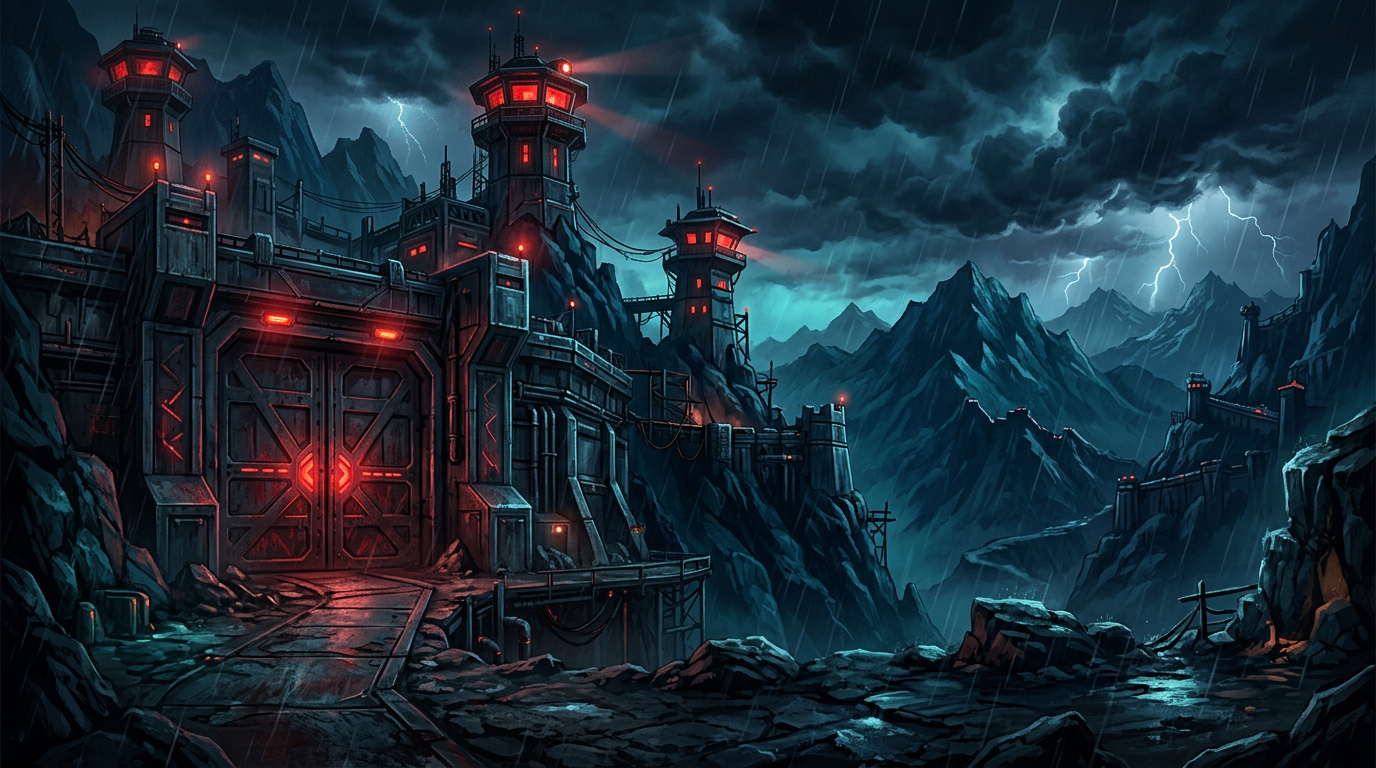
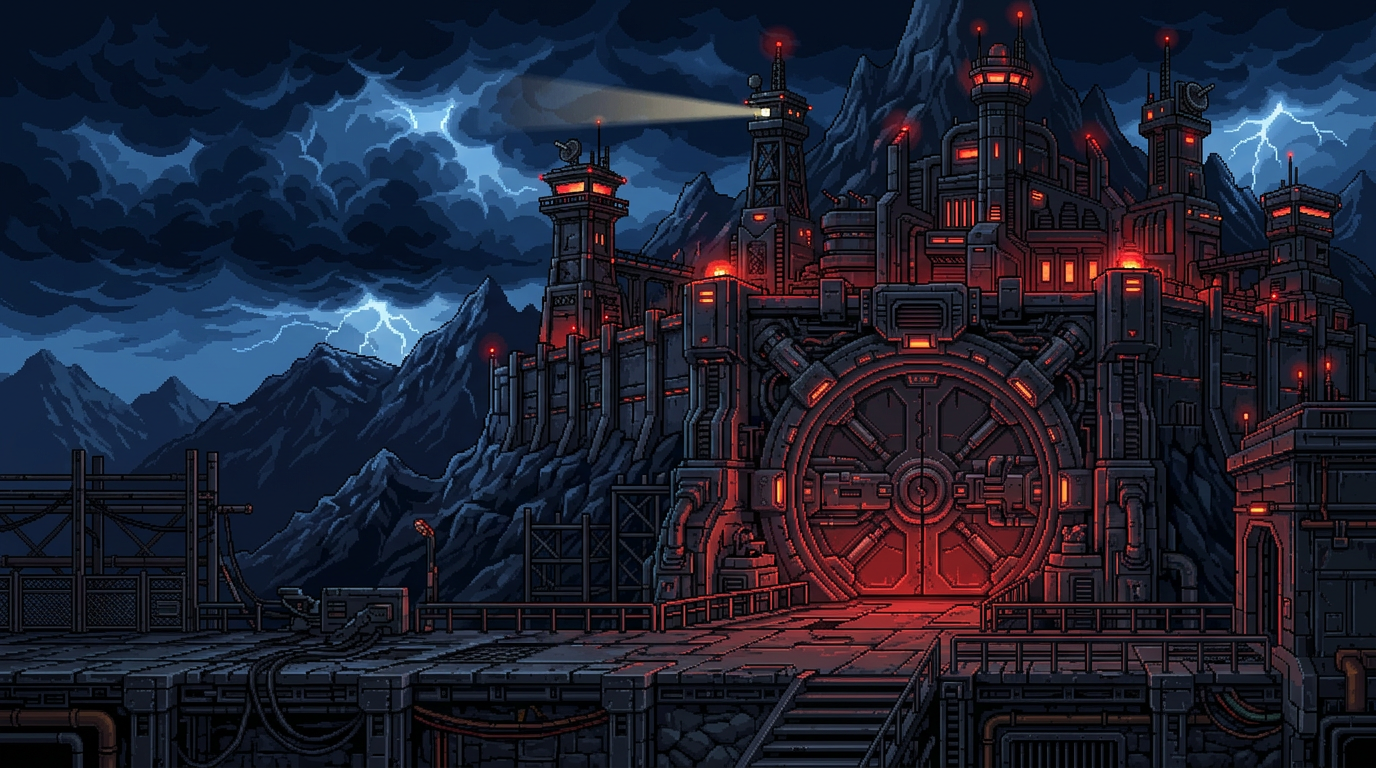
Restyle campaign as modern pixel-art run-and-gun

diff --git a/jungle_strike/lib/fighter_painter.dart b/jungle_strike/lib/fighter_painter.dart
@@ -1,9 +1,7 @@
 import 'dart:math' as math;
-import 'dart:ui';
 import 'package:flutter/material.dart';
 
-/// Draws Asha as a grounded, muscular side-view fighter with a readable face,
-/// exposed arms and a weapon visibly held in both hands.
+/// Original, high-detail pixel-art side-view fighter sprite.
 void paintFighter(
   Canvas canvas, {
   required double x,
@@ -15,106 +13,81 @@ void paintFighter(
   required bool firing,
   required String weapon,
 }) {
-  final bob = math.sin(frame * .28) * (prone ? 0 : 1.4 * scale);
-  final fx = x;
-  final fy = footY + bob;
-  const outline = Color(0xff111b25);
-  const armor = Color(0xff263946);
-  const armorLight = Color(0xff54707a);
-  const skin = Color(0xffc9845e);
-  final edge = Paint()..color = outline;
-  final skinPaint = Paint()..shader = const LinearGradient(begin: Alignment.topLeft, end: Alignment.bottomRight, colors: [Color(0xfff0b18a), skin, Color(0xff8b513e)]).createShader(Rect.fromLTWH(fx-36*scale, fy-84*scale, 80*scale, 75*scale));
-  final armorPaint = Paint()..shader = const LinearGradient(begin: Alignment.topLeft, end: Alignment.bottomRight, colors: [Color(0xff55727b), armor, Color(0xff172832)]).createShader(Rect.fromLTWH(fx-32*scale, fy-75*scale, 68*scale, 80*scale));
-  final riflePaint = Paint()..shader = const LinearGradient(begin: Alignment.topCenter, end: Alignment.bottomCenter, colors: [Color(0xff8ca4a2), Color(0xff34444c), Color(0xff111b22)]).createShader(Rect.fromLTWH(fx, fy-65*scale, 76*scale, 20*scale));
+  const ink = Color(0xff101920);
+  const skin = Color(0xffd69069);
+  const skinLight = Color(0xffffbc8d);
+  const skinShade = Color(0xff874f43);
+  const armor = Color(0xff263c47);
+  const armorMid = Color(0xff3f6470);
+  const armorHi = Color(0xff79a3a2);
+  const pants = Color(0xff293744);
+  const gold = Color(0xffffc857);
+  const tile = 4.0;
+  final px = tile * scale;
+  final bob = prone ? 0.0 : math.sin(frame * .28) * 1.5 * scale;
+  final baseY = footY + bob;
+  final rifleColor = weapon == 'ROCKET' ? const Color(0xffba6844) : weapon == 'SPREAD' ? const Color(0xff538b9c) : const Color(0xff52686e);
 
-  canvas.save();
-  if (dodging) {
-    canvas.translate(fx, fy);
-    canvas.rotate(-.12);
-    canvas.translate(-fx, -fy);
+  void block(double left, double top, double width, double height, Color color) {
+    final l = ((x + left * scale) / px).roundToDouble() * px;
+    final t = ((baseY + top * scale) / px).roundToDouble() * px;
+    canvas.drawRect(Rect.fromLTWH(l, t, (width / tile).round() * px, (height / tile).round() * px), Paint()..color = color);
   }
-  canvas.drawOval(Rect.fromCenter(center: Offset(fx, fy+2*scale), width: 54*scale, height: 10*scale), Paint()..color = (dodging ? const Color(0x9972ffe3) : const Color(0x7738e0cb))..maskFilter = MaskFilter.blur(BlurStyle.normal, dodging ? 15*scale : 6*scale));
+
+  canvas.drawRect(Rect.fromLTWH(x - 24*scale, footY + 2*scale, 60*scale, 6*scale), Paint()..color = (dodging ? const Color(0xff50e4d1) : const Color(0x8843d0b2))..maskFilter = MaskFilter.blur(BlurStyle.normal, dodging ? 12*scale : 5*scale));
 
   if (prone) {
-    // Low crawl pose: face and both hands remain behind the raised rifle.
-    canvas.drawRRect(RRect.fromRectAndRadius(Rect.fromLTWH(fx-23*scale, fy-26*scale, 48*scale, 17*scale), Radius.circular(7*scale)), armorPaint);
-    canvas.drawRRect(RRect.fromRectAndRadius(Rect.fromLTWH(fx-23*scale, fy-26*scale, 48*scale, 17*scale), Radius.circular(7*scale)), Paint()..style=PaintingStyle.stroke..strokeWidth=1.6*scale..color=outline);
-    canvas.drawOval(Rect.fromLTWH(fx-15*scale, fy-12*scale, 20*scale, 8*scale), Paint()..color=const Color(0xff202d35));
-    canvas.drawCircle(Offset(fx+25*scale, fy-22*scale), 11*scale, skinPaint);
-    canvas.drawPath(Path()..moveTo(fx+16*scale,fy-29*scale)..quadraticBezierTo(fx+26*scale,fy-41*scale,fx+37*scale,fy-30*scale)..lineTo(fx+34*scale,fy-26*scale)..lineTo(fx+18*scale,fy-25*scale)..close(), edge);
-    canvas.drawCircle(Offset(fx+30*scale,fy-23*scale), 1.3*scale, edge);
-    _drawRifle(canvas, fx+10*scale, fy-37*scale, scale, weapon, riflePaint, outline);
-    canvas.restore();
+    // Low pixel crawl silhouette with face, exposed forearm and rifle still readable.
+    block(-24,-28,48,20,ink); block(-20,-28,40,16,armor); block(-16,-24,28,4,armorHi); block(-12,-20,20,4,armorMid);
+    block(20,-32,20,16,skinShade); block(20,-32,16,12,skin); block(28,-32,8,4,ink); block(32,-24,4,4,ink);
+    block(28,-40,48,8,ink); block(32,-36,44,4,rifleColor); block(52,-44,8,8,ink); block(60,-36,24,4,armorHi);
+    block(26,-36,12,8,skin); block(44,-32,12,8,skinLight); block(-20,-8,20,8,pants); block(-24,-4,16,4,ink);
+    if (firing) block(80,-40,12,8,gold);
     return;
   }
 
-  // Boots and articulated tactical trousers.
-  final legPaint = Paint()..shader = const LinearGradient(colors: [Color(0xff44515a), Color(0xff18232d)]).createShader(Rect.fromLTWH(fx-22*scale,fy-34*scale,42*scale,35*scale));
-  canvas.drawPath(Path()..moveTo(fx-14*scale,fy-35*scale)..lineTo(fx+13*scale,fy-35*scale)..lineTo(fx+12*scale,fy-13*scale)..lineTo(fx+17*scale,fy-5*scale)..lineTo(fx+5*scale,fy-3*scale)..lineTo(fx-1*scale,fy-21*scale)..lineTo(fx-12*scale,fy-9*scale)..lineTo(fx-17*scale,fy-5*scale)..lineTo(fx-23*scale,fy-9*scale)..close(), legPaint);
-  canvas.drawCircle(Offset(fx+8*scale,fy-17*scale),5.2*scale,Paint()..color=const Color(0xff65717a));
-  canvas.drawRRect(RRect.fromRectAndRadius(Rect.fromLTWH(fx+4*scale,fy-10*scale,14*scale,8*scale),Radius.circular(3*scale)),edge);
-  canvas.drawRRect(RRect.fromRectAndRadius(Rect.fromLTWH(fx-27*scale,fy-10*scale,15*scale,8*scale),Radius.circular(3*scale)),edge);
-  canvas.drawRect(Rect.fromLTWH(fx-22*scale,fy-34*scale,29*scale,5*scale),Paint()..color=const Color(0xff111a21));
+  // Boots, split tactical trousers, knee pads, belt and vest: all crisp pixel clusters.
+  block(-24,-12,20,8,ink); block(-20,-16,16,8,armorMid); block(4,-12,20,8,ink); block(8,-16,16,8,armorMid);
+  block(-16,-36,12,24,ink); block(-12,-36,12,20,pants); block(-16,-28,8,8,armorMid); block(-12,-24,8,4,armorHi);
+  block(4,-36,12,24,ink); block(8,-36,12,20,pants); block(8,-28,8,8,armorMid); block(12,-24,8,4,armorHi);
+  block(-20,-40,40,8,ink); block(-16,-40,32,4,gold); block(-12,-68,36,32,ink);
+  block(-8,-68,28,28,armor); block(-4,-64,24,20,armorMid); block(0,-60,4,20,armorHi);
+  block(-8,-44,28,4,armorHi); block(0,-44,8,4,gold); block(-4,-56,8,4,ink); block(8,-56,8,4,ink);
 
-  // Broad torso, tactical plate, shoulder pads and prominent bare biceps.
-  final torso = Path()..moveTo(fx-16*scale,fy-69*scale)..quadraticBezierTo(fx,fy-77*scale,fx+17*scale,fy-68*scale)..lineTo(fx+20*scale,fy-38*scale)..quadraticBezierTo(fx,fy-30*scale,fx-18*scale,fy-38*scale)..close();
-  canvas.drawPath(torso,armorPaint);
-  canvas.drawPath(torso,Paint()..style=PaintingStyle.stroke..strokeWidth=1.7*scale..color=outline);
-  canvas.drawOval(Rect.fromLTWH(fx-27*scale,fy-67*scale,21*scale,21*scale),skinPaint);
-  canvas.drawOval(Rect.fromLTWH(fx+10*scale,fy-67*scale,22*scale,21*scale),skinPaint);
-  canvas.drawOval(Rect.fromLTWH(fx-24*scale,fy-63*scale,15*scale,9*scale),Paint()..color=const Color(0x66ffd0aa));
-  canvas.drawOval(Rect.fromLTWH(fx+15*scale,fy-63*scale,15*scale,9*scale),Paint()..color=const Color(0x66ffd0aa));
-  canvas.drawRRect(RRect.fromRectAndRadius(Rect.fromLTWH(fx-12*scale,fy-68*scale,26*scale,30*scale),Radius.circular(5*scale)),Paint()..color=armorLight);
-  canvas.drawLine(Offset(fx,fy-65*scale),Offset(fx,fy-41*scale),Paint()..color=const Color(0xff9aafb2)..strokeWidth=1.4*scale);
-  canvas.drawRRect(RRect.fromRectAndRadius(Rect.fromLTWH(fx-18*scale,fy-39*scale,38*scale,6*scale),Radius.circular(2*scale)),Paint()..color=const Color(0xffcf9e48));
-  canvas.drawRRect(RRect.fromRectAndRadius(Rect.fromLTWH(fx-3*scale,fy-39*scale,9*scale,6*scale),Radius.circular(1*scale)),edge);
+  // Large exposed upper arms/biceps with highlight and shadow pixels.
+  block(-28,-68,20,20,ink); block(-24,-64,16,16,skinShade); block(-20,-64,12,12,skin);
+  block(-20,-64,8,4,skinLight); block(-12,-56,8,8,skinShade);
+  block(16,-68,20,20,ink); block(20,-64,16,16,skinShade); block(20,-64,12,12,skin);
+  block(24,-64,8,4,skinLight); block(20,-52,12,4,skinShade);
+  // Tactical gloves and forearms angle inward to grip the gun.
+  block(-8,-56,24,8,skinShade); block(-4,-56,20,4,skinLight); block(20,-56,16,8,skinShade); block(24,-56,12,4,skinLight);
+  block(0,-52,12,8,ink); block(28,-52,12,8,ink);
 
-  // Strong forearms angle forward to the trigger and front grip.
-  final armPaint = Paint()..color=skin;
-  canvas.drawLine(Offset(fx+23*scale,fy-58*scale),Offset(fx+35*scale,fy-51*scale),Paint()..color=outline..strokeWidth=12*scale..strokeCap=StrokeCap.round);
-  canvas.drawLine(Offset(fx+23*scale,fy-58*scale),Offset(fx+35*scale,fy-51*scale),Paint()..color=const Color(0xffd89a72)..strokeWidth=8.5*scale..strokeCap=StrokeCap.round);
-  canvas.drawLine(Offset(fx-20*scale,fy-55*scale),Offset(fx+3*scale,fy-49*scale),Paint()..color=outline..strokeWidth=11*scale..strokeCap=StrokeCap.round);
-  canvas.drawLine(Offset(fx-20*scale,fy-55*scale),Offset(fx+3*scale,fy-49*scale),Paint()..color=const Color(0xffca8963)..strokeWidth=7.5*scale..strokeCap=StrokeCap.round);
-  canvas.drawCircle(Offset(fx+35*scale,fy-51*scale),5*scale,armPaint);
-  canvas.drawCircle(Offset(fx+3*scale,fy-49*scale),5*scale,armPaint);
+  // Face, visible eye, brow, nose, hair and bandana.
+  block(-4,-92,28,28,ink); block(0,-88,20,24,skinShade); block(4,-88,16,20,skin); block(12,-84,8,4,skinLight);
+  block(16,-80,4,4,ink); block(20,-76,4,4,skinShade); block(12,-76,8,4,ink);
+  block(-4,-96,28,12,ink); block(0,-92,24,8,armor); block(4,-88,16,4,armorHi);
+  block(-8,-88,8,16,ink); block(-4,-76,4,8,armorMid);
 
-  // Expressive visible face, brow, eye, nose, hair and a modern headset.
-  canvas.drawOval(Rect.fromLTWH(fx-5*scale,fy-91*scale,27*scale,31*scale),skinPaint);
-  canvas.drawPath(Path()..moveTo(fx-7*scale,fy-77*scale)..quadraticBezierTo(fx-10*scale,fy-94*scale,fx+4*scale,fy-97*scale)..quadraticBezierTo(fx+25*scale,fy-94*scale,fx+24*scale,fy-80*scale)..lineTo(fx+17*scale,fy-84*scale)..lineTo(fx+3*scale,fy-82*scale)..lineTo(fx-4*scale,fy-74*scale)..close(),Paint()..color=const Color(0xff16232c));
-  canvas.drawRRect(RRect.fromRectAndRadius(Rect.fromLTWH(fx+8*scale,fy-81*scale,9*scale,2*scale),Radius.circular(scale)),Paint()..color=const Color(0xff171d24));
-  canvas.drawCircle(Offset(fx+13*scale,fy-77*scale),1.7*scale,Paint()..color=const Color(0xfff7eee0));
-  canvas.drawLine(Offset(fx+19*scale,fy-70*scale),Offset(fx+24*scale,fy-69*scale),Paint()..color=const Color(0xff704234)..strokeWidth=1.2*scale);
-  canvas.drawRRect(RRect.fromRectAndRadius(Rect.fromLTWH(fx-8*scale,fy-83*scale,5*scale,10*scale),Radius.circular(2*scale)),Paint()..color=const Color(0xff55d9ca));
-
-  _drawRifle(canvas, fx+8*scale, fy-58*scale, scale, weapon, riflePaint, outline);
+  // Modern rifle, visibly held by both hands, distinct silhouette per weapon.
+  final rifleY = -60.0;
+  block(8,rifleY-4,72,16,ink);
+  block(12,rifleY,64,8,rifleColor);
+  block(16,rifleY-4,28,4,armorHi); block(20,rifleY+8,12,8,ink);
+  block(60,rifleY+4,16,4,armorHi); block(76,rifleY+4,16,4,ink); block(88,rifleY+4,8,4,armorHi);
+  block(36,rifleY-8,8,4,ink); block(40,rifleY-4,4,4,gold);
+  block(8,rifleY+4,12,8,ink); block(12,rifleY+4,8,4,skin);
+  block(48,rifleY+4,12,8,ink); block(52,rifleY+4,8,4,skinLight);
+  if (weapon == 'ROCKET') { block(32,rifleY-8,32,4,gold); block(20,rifleY+12,12,4,ink); }
+  if (weapon == 'SPREAD') { block(80,rifleY,16,4,armorHi); }
   if (firing) {
-    final muzzle = Offset(fx+78*scale,fy-55*scale);
-    canvas.drawCircle(muzzle,weapon=='ROCKET'?12*scale:7*scale,Paint()..color=const Color(0xffffa44f)..maskFilter=MaskFilter.blur(BlurStyle.normal,8*scale));
-    final flare = Path();
-    final flareRadius = weapon == 'ROCKET' ? 15*scale : 9*scale;
-    for (var i = 0; i < 10; i++) {
-      final angle = -math.pi / 2 + i * math.pi / 5;
-      final radius = i.isEven ? flareRadius : flareRadius * .42;
-      final point = Offset(muzzle.dx + math.cos(angle) * radius, muzzle.dy + math.sin(angle) * radius);
-      if (i == 0) { flare.moveTo(point.dx, point.dy); } else { flare.lineTo(point.dx, point.dy); }
-    }
-    flare.close();
-    canvas.drawPath(flare, Paint()..color=const Color(0xfffff1b0));
+    final flash = Path()
+      ..moveTo((x+96*scale),baseY-58*scale)
+      ..lineTo((x+108*scale),baseY-66*scale)
+      ..lineTo((x+104*scale),baseY-58*scale)
+      ..lineTo((x+112*scale),baseY-54*scale)
+      ..lineTo((x+100*scale),baseY-52*scale)
+      ..close();
+    canvas.drawPath(flash,Paint()..color=gold);
   }
-  canvas.restore();
-}
-
-void _drawRifle(Canvas canvas, double x, double y, double s, String weapon, Paint body, Color outline) {
-  final height = weapon == 'ROCKET' ? 11*s : 7*s;
-  final total = weapon == 'ROCKET' ? 68*s : 60*s;
-  final box = Rect.fromLTWH(x,y,total,height);
-  canvas.drawRRect(RRect.fromRectAndRadius(box,Radius.circular(2*s)),Paint()..color=outline);
-  canvas.drawRRect(RRect.fromRectAndRadius(Rect.fromLTWH(x+5*s,y+1*s,total-12*s,height-2*s),Radius.circular(2*s)),body);
-  canvas.drawRect(Rect.fromLTWH(x+total-8*s,y+height*.32,weapon=='ROCKET'?21*s:16*s,2.5*s),Paint()..color=const Color(0xffd9e6df));
-  canvas.drawRect(Rect.fromLTWH(x+12*s,y+height,8*s,5*s),Paint()..color=const Color(0xff252f36));
-  canvas.drawLine(Offset(x+24*s,y-2*s),Offset(x+24*s,y+height+2*s),Paint()..color=const Color(0xff71898a)..strokeWidth=1.5*s);
-  canvas.drawCircle(Offset(x+8*s,y+height/2),4*s,Paint()..color=const Color(0xff202c34));
-  // Gloves sit over the receiver, making the two-handed grip unmistakable.
-  canvas.drawRRect(RRect.fromRectAndRadius(Rect.fromLTWH(x+4*s,y-2*s,10*s,7*s),Radius.circular(3*s)),Paint()..color=const Color(0xff151e24));
-  canvas.drawRRect(RRect.fromRectAndRadius(Rect.fromLTWH(x+31*s,y+height-1*s,11*s,7*s),Radius.circular(3*s)),Paint()..color=const Color(0xff151e24));
 }

diff --git a/jungle_strike/lib/main.dart b/jungle_strike/lib/main.dart
@@ -23,7 +23,7 @@ class GameMenu extends StatelessWidget {
   @override
   Widget build(BuildContext context) => Scaffold(
     body: Stack(fit: StackFit.expand, children: [
-      Image.asset('assets/jungle_frontier.png', fit: BoxFit.cover),
+      Image.asset('assets/jungle_frontier.png', fit: BoxFit.cover, filterQuality: FilterQuality.none),
       Container(color: const Color(0xaa07131b)),
       SafeArea(
         child: Center(
@@ -317,7 +317,7 @@ class _GameScreenState extends State<GameScreen> {
       Expanded(child: GestureDetector(
         onTap: running ? null : start,
         child: Stack(fit: StackFit.expand, children: [
-          Image.asset(missionBackground(level), fit: BoxFit.cover, errorBuilder: (c, e, s) => const DecoratedBox(decoration: BoxDecoration(gradient: LinearGradient(begin: Alignment.topCenter, end: Alignment.bottomCenter, colors: [Color(0xff14283a), Color(0xff385c55), Color(0xff182b30)])))),
+          Image.asset(missionBackground(level), fit: BoxFit.cover, filterQuality: FilterQuality.none, errorBuilder: (c, e, s) => const DecoratedBox(decoration: BoxDecoration(gradient: LinearGradient(begin: Alignment.topCenter, end: Alignment.bottomCenter, colors: [Color(0xff14283a), Color(0xff385c55), Color(0xff182b30)])))),
           CustomPaint(size: Size.infinite, painter: JunglePainter(x: x, jump: jump, scroll: scroll, shooting: firing, level: level, weapon: weapon, prone: prone, dodging: dodging, enemies: enemies, projectiles: projectiles, frame: frame)),
           if (emote.isNotEmpty && running) Positioned(left: MediaQuery.sizeOf(context).width * x, top: 30, child: Text(emote, style: const TextStyle(fontSize: 40))),
           if (!running) Center(child: Container(
